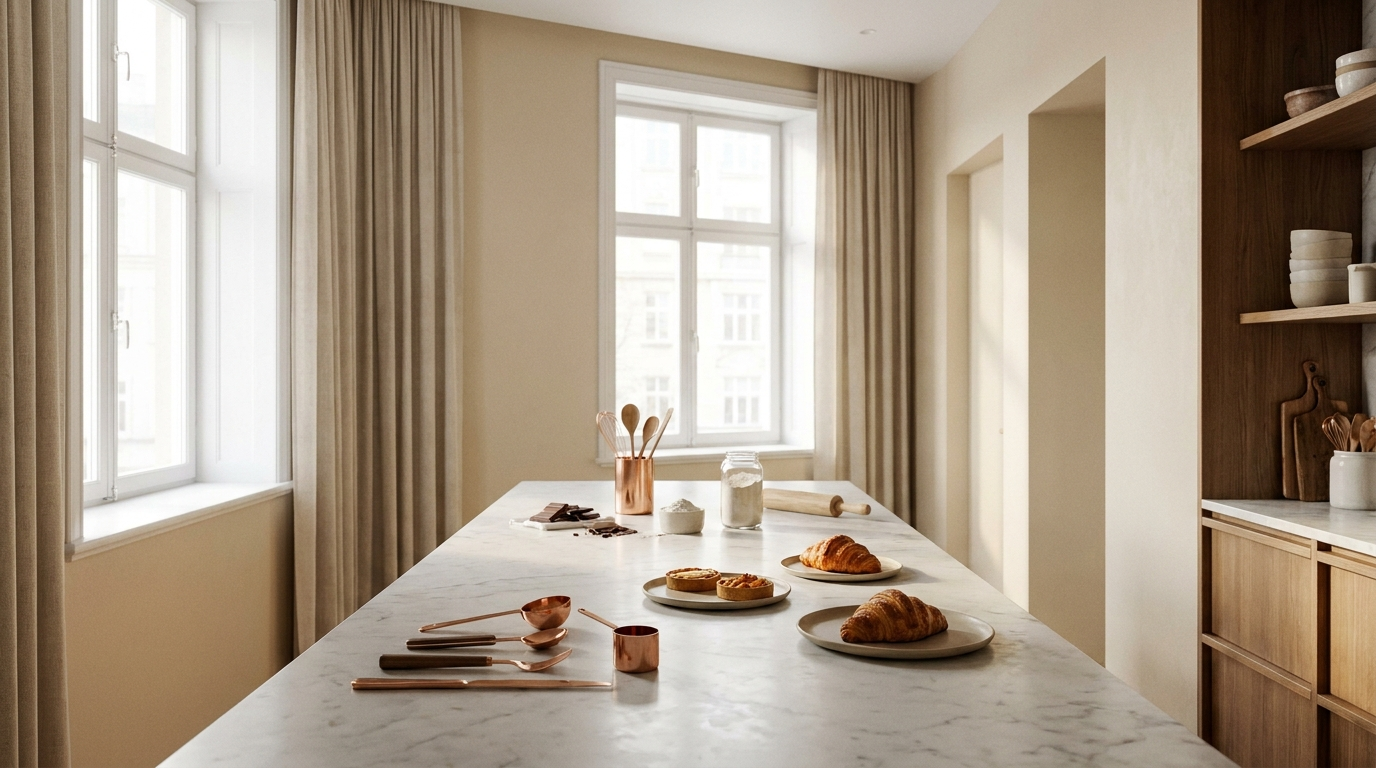
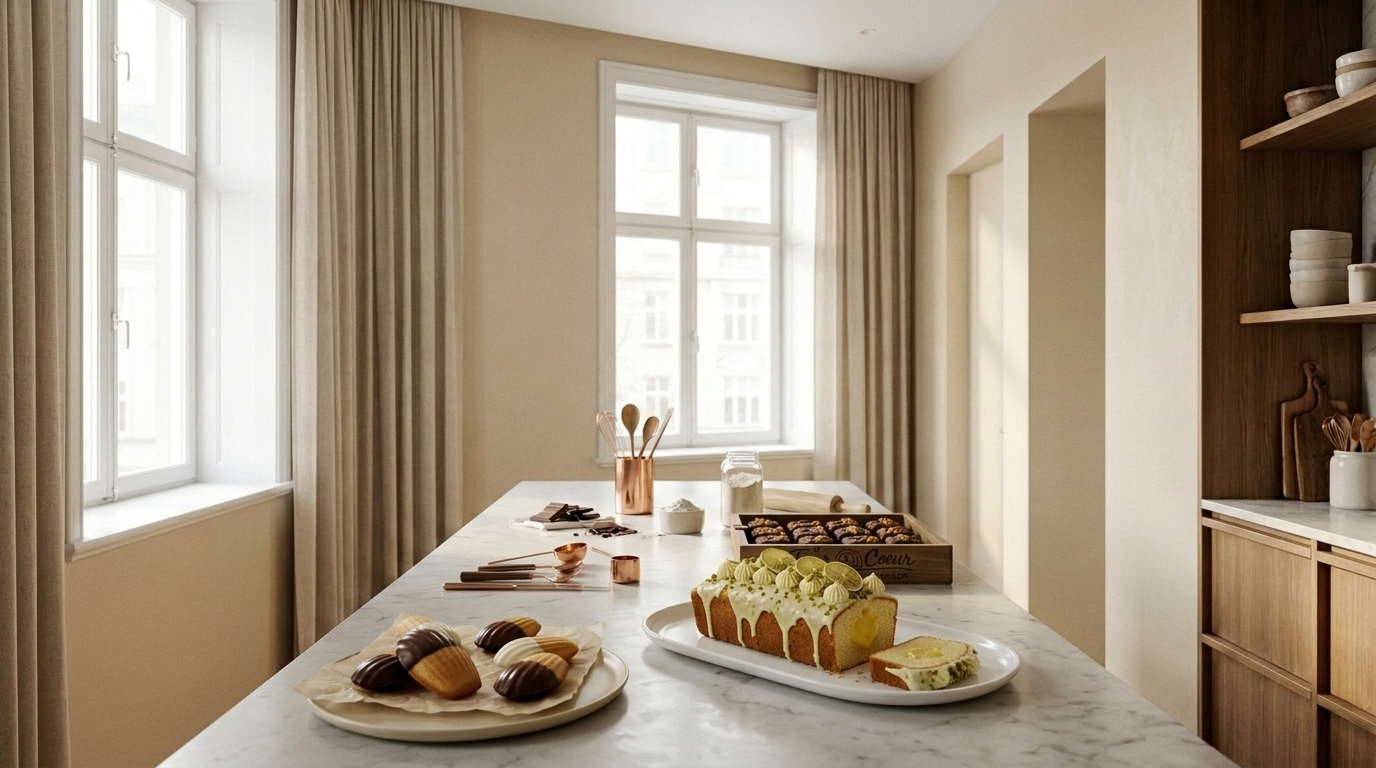
Refactor code structure for improved readability and maintainability

Changed region(s): [[0.2188, 0.625, 0.7812, 1.0]]

diff --git a/src/components/sections/art-of-homemade.tsx b/src/components/sections/art-of-homemade.tsx
@@ -5,7 +5,7 @@ const steps = [
   {
     n: "01",
     title: "Des ingrédients d'exception",
-    text: "Beurre AOP, vanille de Madagascar, chocolats de grands crus, fruits de saison sélectionnés chaque matin. La qualité commence à la source.",
+    text: "Beurre AOP, Sucre maîtrisé, chocolats de grands crus, fruits de saison sélectionnés chaque matin. La qualité commence à la source.",
   },
   {
     n: "02",

diff --git a/src/components/sections/ingredients.tsx b/src/components/sections/ingredients.tsx
@@ -7,7 +7,7 @@ import { Reveal } from "@/components/animations/reveal";
 
 const pillars = [
   { title: "Beurre AOP", text: "Pour des feuilletages d'une finesse incomparable." },
-  { title: "Vanille de Madagascar", text: "Gousses entières infusées, jamais d'arôme." },
+  { title: "Moins de sucre, plus d'émotion", text: "Des créations pensées pour laisser s'exprimer pleinement le beurre, le chocolat, les fruits et les épices, sans excès de sucre." },
   { title: "Chocolats grands crus", text: "Sélectionnés pour leur intensité et leur rondeur." },
   { title: "Fruits de saison", text: "Choisis chaque matin, au sommet de leur maturité." },
 ];

diff --git a/src/config/site.ts b/src/config/site.ts
@@ -16,7 +16,7 @@ export const siteConfig = {
   // TVA applicable (Maroc) — à ajuster selon produit/réglementation
   vatRate: 0.1,
   contact: {
-    email: "[email redacted]",
+    email: "[email redacted]",
     phone: "[phone redacted] 86",
     address: "Casablanca, Maroc",
   },